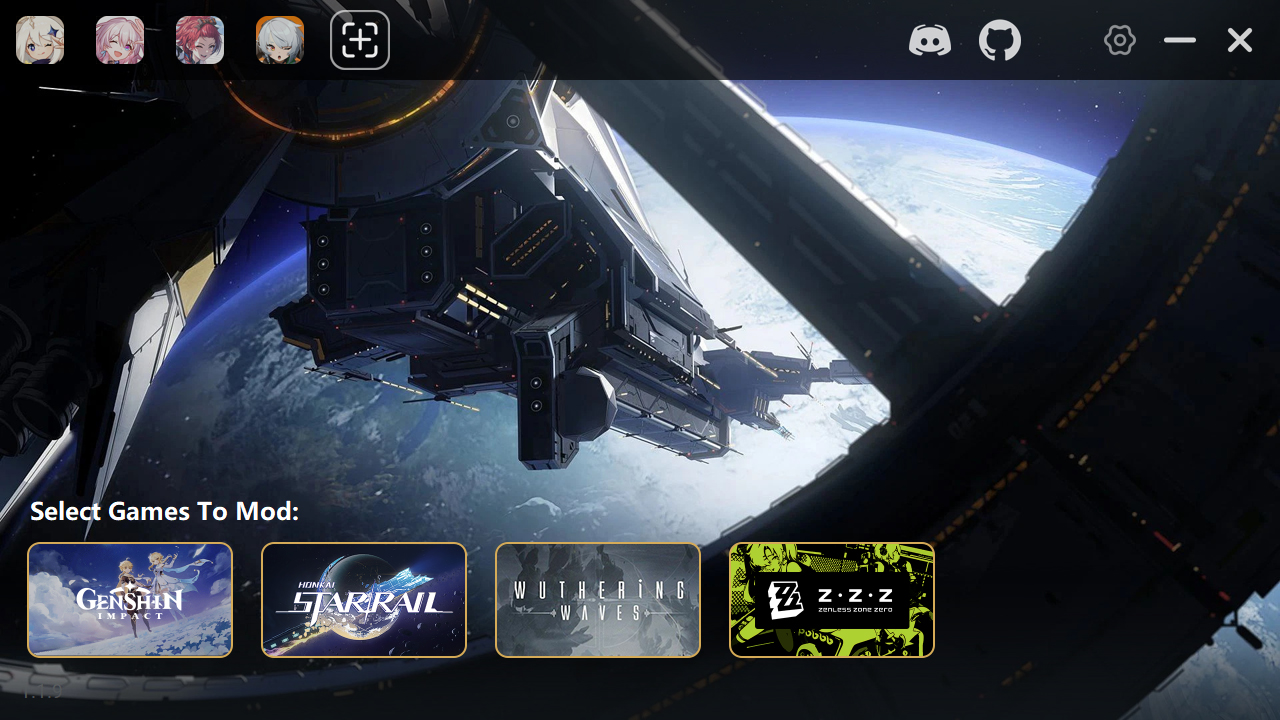
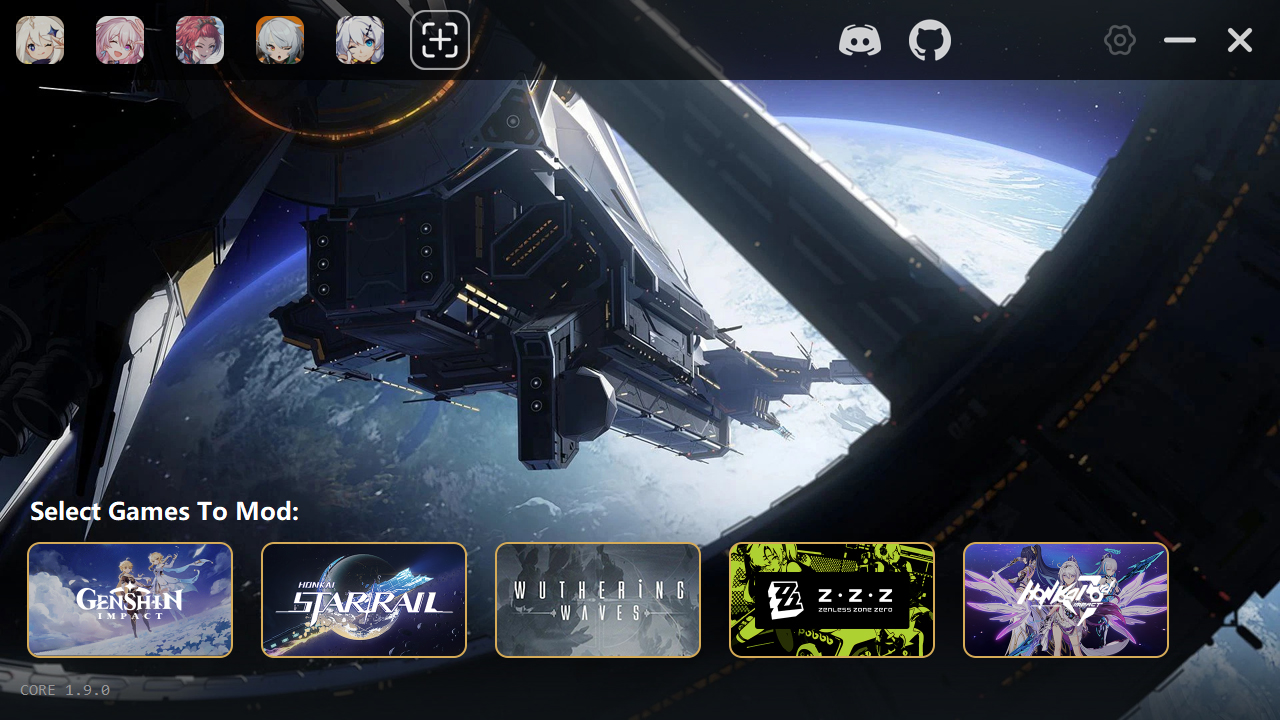
Updated media to include HIMI

diff --git a/README.md b/README.md
@@ -26,14 +26,14 @@
 
 ## Installation
 
-* **Native Windows APP** (for **Windows** only)
+### **Native Windows APP** (for **Windows** only)
   1. Download the [latest release](https://github.com/SpectrumQT/XXMI-Launcher/releases/latest) of **XXMI-Launcher-Installer-Online-vX.X.X.msi**
   2. Run **XXMI-Launcher-Installer-Online-vX.X.X.msi** with Double-Click.
   3. Click **[Quick Installation]** to install **XXMI Launcher** to the default location (`%AppData%\XXMI Launcher`) or use **[Custom Installation]** to set another folder.
   4. On the game selection page of **XXMI Launcher Window** click desired **Game Tile** to add **Model Importer Icon** to the top-left corner.
   5. Click **Model Importer Icon** to open Model Importer page and press **[Install]** button to download and install selected Model Importer.
 
-* **Portable** (for **Windows** and **Linux** via **WINE 9.22+**)
+### **Portable** (for **Windows** and **Linux** via **WINE 9.22+**)
   1. Download and install [the latest Microsoft Visual C++ Redistributable](https://aka.ms/vs/17/release/vc_redist.x64.exe).
   2. Download the [latest release](https://github.com/SpectrumQT/XXMI-Launcher/releases/latest) of **XXMI-Launcher-Portable-vX.X.X.zip**.
   3. Extract the archive to desired location (avoid Program Files folders!).
@@ -45,8 +45,9 @@
 
 - [WWMI - Wuthering Waves Model Importer GitHub](https://github.com/SpectrumQT/WWMI-Package)
 - [ZZMI - Zenless Zone Zero Model Importer GitHub](https://github.com/leotorrez/ZZMI-Package)
-- [SRMI - Honkai: Star Rail Model Importer GitHub](https://github.com/SilentNightSound/SR-Model-Importer)
-- [GIMI - Genshin Impact Model Importer GitHub](https://github.com/SilentNightSound/GI-Model-Importer)
+- [SRMI - Star Rail Model Importer GitHub](https://github.com/SpectrumQT/SRMI-TEST) ([old repo](https://github.com/SilentNightSound/SR-Model-Importer))
+- [GIMI - Genshin Impact Model Importer GitHub](https://github.com/SilentNightSound/GIMI-Package) ([old repo](https://github.com/SilentNightSound/GI-Model-Importer))
+- [HIMI - Honkai Impact Model Importer GitHub](https://github.com/leotorrez/HIMI-Package) ([old repo](https://github.com/SilentNightSound/HI-Model-Importer))
   
 ## Support This Project
 
@@ -65,6 +66,9 @@
 ### ZZMI: 
 - **Creator**: [LeoTorrez](https://github.com/leotorrez) ([Ko-Fi](https://ko-fi.com/leotorrez)), [Scyll](https://gamebanana.com/members/2644630) ([Ripe](https://gamebanana.com/members/2644630)), [SilentNightSound](https://github.com/SilentNightSound) ([Ko-Fi](https://ko-fi.com/silentnightsound))
 - **Maintainers**: [SinsOfSeven](https://github.com/SinsOfSeven) ([Ko-Fi](https://ko-fi.com/sinsofseven)), [LeoTorrez](https://github.com/leotorrez) ([Ko-Fi](https://ko-fi.com/leotorrez)), [Gustav0](https://github.com/Seris0) ([Ko-Fi](https://ko-fi.com/gustav0_)), [Scyll](https://gamebanana.com/members/2644630) ([Ripe](https://gamebanana.com/members/2644630)), [Satan1c](https://gamebanana.com/members/2789093) ([Patreon](https://patreon.com/Satan1cL))
+### HIMI:
+- **Creator**: [SilentNightSound](https://github.com/SilentNightSound) ([Ko-Fi](https://ko-fi.com/silentnightsound))
+- **Maintainers**: [LeoTorrez](https://github.com/leotorrez) ([Ko-Fi](https://ko-fi.com/leotorrez)), [SinsOfSeven](https://github.com/SinsOfSeven) ([Ko-Fi](https://ko-fi.com/sinsofseven))
 
 ## License
 

diff --git a/.github/ISSUE_TEMPLATE/game-crash-report.md b/.github/ISSUE_TEMPLATE/game-crash-report.md
@@ -76,3 +76,6 @@ Please don't forget to include the **launcher log**  — it is essential for und
 
 - **ZZMI (Zenless Zone Zero)**  
   https://github.com/leotorrez/ZZMI-package/issues
+
+- **HIMI (Zenless Zone Zero)**  
+  https://github.com/leotorrez/HIMI-package/issues

diff --git a/.github/ISSUE_TEMPLATE/in-game-issue-report.md b/.github/ISSUE_TEMPLATE/in-game-issue-report.md
@@ -44,3 +44,6 @@ If your issue is confirmed to be Model Importer–related, please **report it to
 
 - **ZZMI (Zenless Zone Zero)**  
   https://github.com/leotorrez/ZZMI-package/issues
+
+- **HIMI (Zenless Zone Zero)**  
+  https://github.com/leotorrez/HIMI-package/issues
